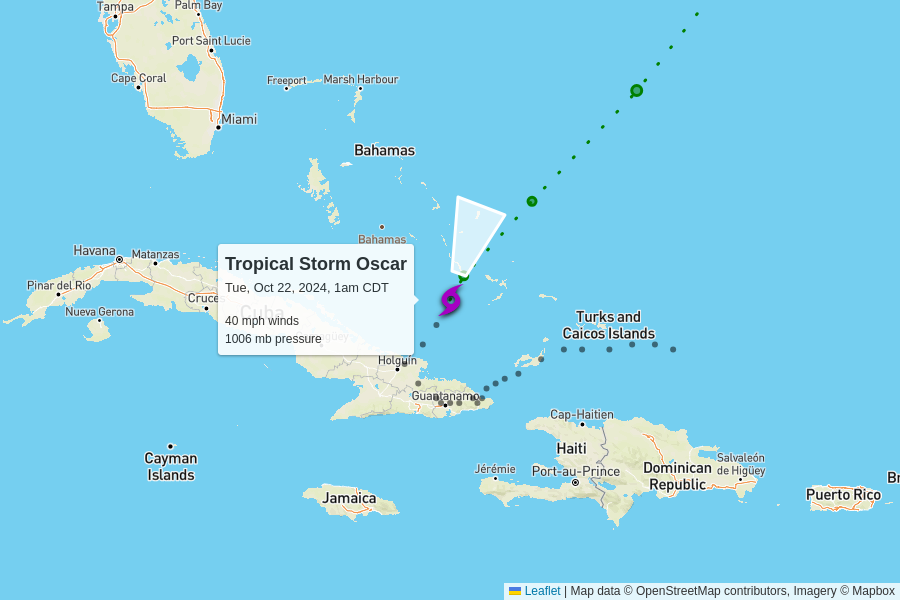
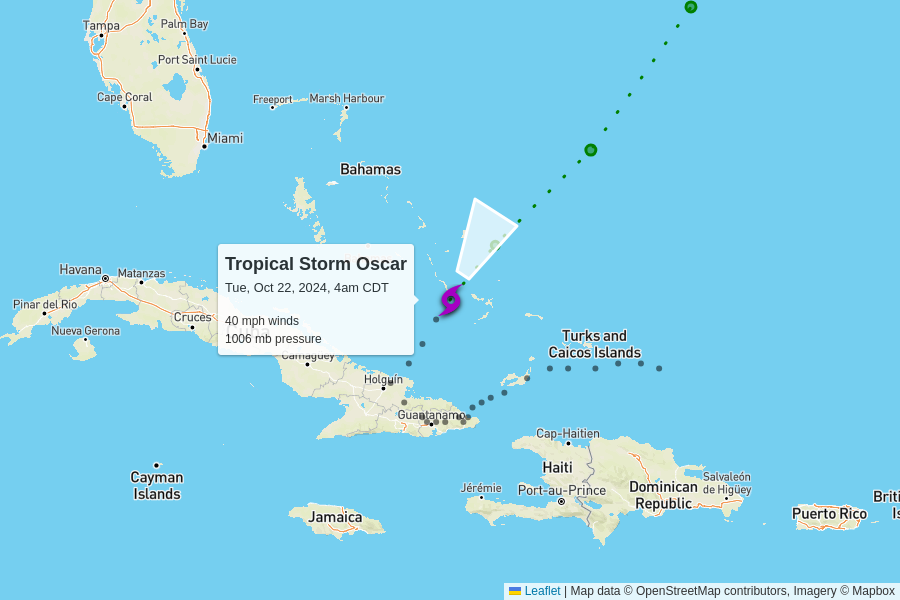
automatic update

diff --git a/docs/index.html b/docs/index.html
@@ -102,7 +102,7 @@
         <td colspan="6" class="storm category-0" >
           <h2>
             Tropical Storm Oscar
-            <p class="updated">last updated <span data-time>2024-10-22T06:00:00.000Z</span></p>
+            <p class="updated">last updated <span data-time>2024-10-22T09:00:00.000Z</span></p>
           </h2>
         </td>
       </tr>
@@ -118,11 +118,11 @@
       <tr>
         <td class="spacer"></td>
         <td>40 mph<br>0 mph since last update</td>
-        <td>1006 mb<br>+1 mb since last update</td>
+        <td>1006 mb<br>0 mb since last update</td>
         <td>
-          9 mph to the north-northeast
+          12 mph to the north-northeast
           <br/>
-          <span style="display: inline-block; font-size: 1.5em; transform: rotate(20deg);">↑</span>
+          <span style="display: inline-block; font-size: 1.5em; transform: rotate(30deg);">↑</span>
         </td>
         <td><a href="https://raw.githubusercontent.com/mgwalker/atlantic-hurricanes/main/data/csv/AL162024.csv">AL162024.csv</a></td>
         <td><a href="https://www.nhc.noaa.gov/archive/2024/OSCAR.shtml?">NHC advisories</a></td>
